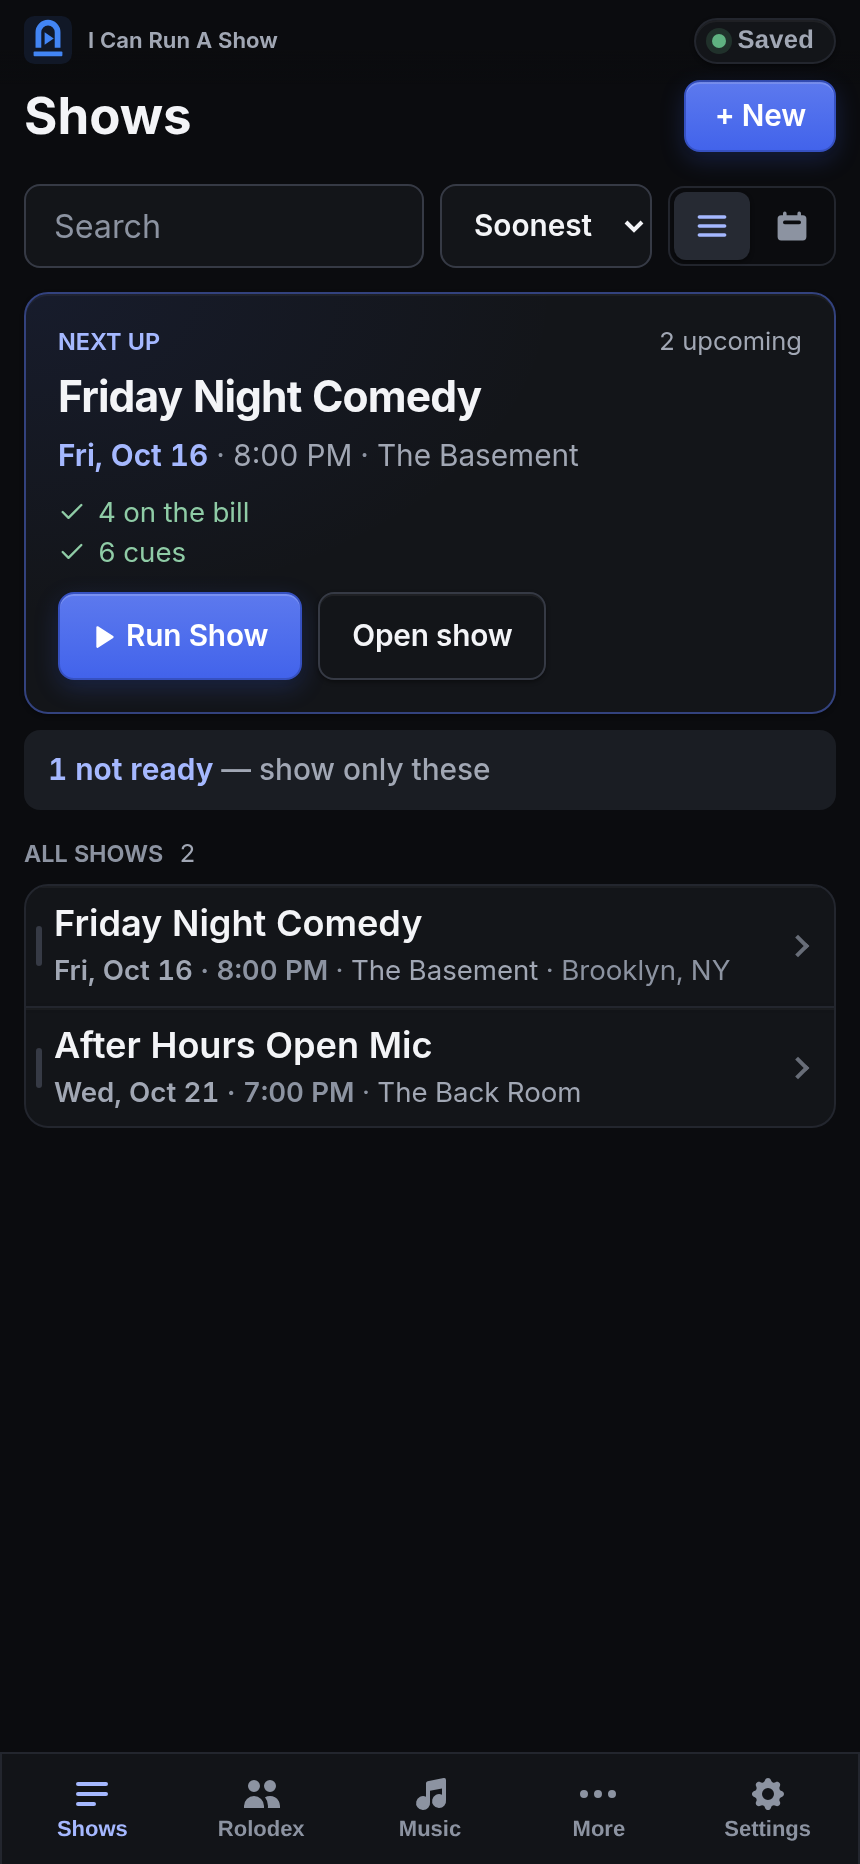
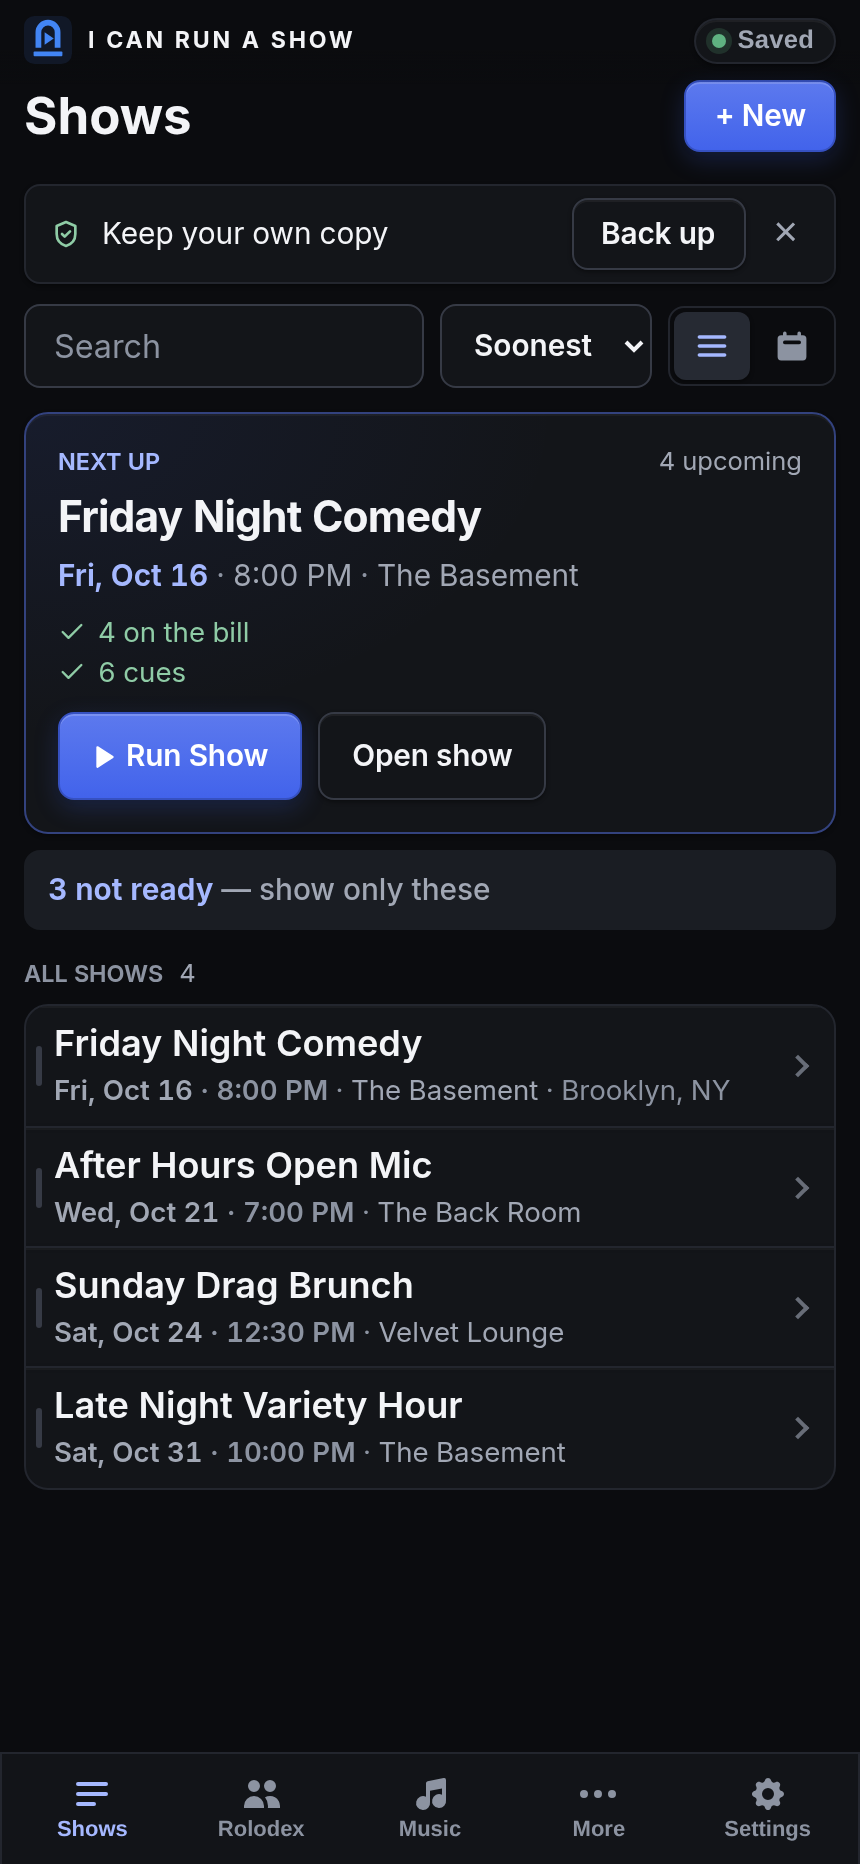
Take the last indie tells out of the app and sales page (#320)
- Sales page: line icons instead of emoji, a trust strip of facts (Stripe
  payments, on-device encryption, offline, no trackers, cancel anytime), a
  support address in the footer and a help FAQ.
- Headlines set the accent word solid instead of in a gradient.
- The name is set as a wordmark (tracked capitals) beside the logo,
  in the app and on the sales page.
- Sign-in folds the link-troubleshooting note behind one line.
- Letter avatars get a colour per person (utils/avatarTint.ts), stable
  across screens.
- Run Show faders read in the app's face, sit in a recessed slot with a
  filled rail and capped thumbs, and its play button uses the app accent.
- Screenshot demo seeds a month of shows, so the dashboard looks in use.
- Screenshots and sales-page images re-captured.

diff --git a/public/tour/index.html b/public/tour/index.html
@@ -120,6 +120,7 @@
     .nav .wrap { display: flex; align-items: center; gap: 20px; min-height: 64px; }
     .nav__brand { white-space: nowrap; display: flex; align-items: center; gap: 10px; color: var(--hero-text); text-decoration: none; font-weight: 700; letter-spacing: -0.01em; }
     .nav__brand img { width: 28px; height: 28px; }
+    .nav__brand span { font-size: 0.82rem; font-weight: 700; letter-spacing: 0.12em; text-transform: uppercase; }
     .nav__links { display: flex; gap: 22px; margin-left: auto; align-items: center; }
     .nav__links a { white-space: nowrap; color: var(--hero-muted); text-decoration: none; font-size: 0.93rem; font-weight: 550; }
     .nav__links a:hover { color: var(--hero-text); }
@@ -138,7 +139,7 @@
     .hero .wrap { display: grid; grid-template-columns: 1.05fr 0.95fr; gap: 48px; align-items: center; }
     .eyebrow { display: inline-block; font-size: 0.75rem; font-weight: 650; letter-spacing: 0.1em; text-transform: uppercase; color: var(--hero-accent); margin-bottom: 16px; }
     .hero h1 { font-size: clamp(2.3rem, 5.4vw, 3.9rem); line-height: 1.04; letter-spacing: -0.035em; font-weight: 750; margin-bottom: 20px; }
-    .hero h1 em { font-style: normal; background: linear-gradient(92deg, #a5b8ff, #d0bfff); -webkit-background-clip: text; background-clip: text; color: transparent; }
+    .hero h1 em { font-style: normal; color: var(--hero-accent); }
     .hero__lede { font-size: 1.15rem; color: var(--hero-muted); max-width: 34em; margin-bottom: 28px; }
     .hero__ctas { display: flex; gap: 12px; flex-wrap: wrap; margin-bottom: 18px; }
     .hero__fine { font-size: 0.88rem; color: var(--hero-muted); }
@@ -157,10 +158,18 @@
       .hero__badge { left: -12px; }
     }
 
+
+    /* Trust strip: facts about payments and data, not testimonials. */
+    .trust { border-bottom: 1px solid var(--border); background: var(--surface); }
+    .trust .wrap { display: flex; flex-wrap: wrap; justify-content: center; gap: 12px 32px; padding-top: 18px; padding-bottom: 18px; }
+    .trust span { display: inline-flex; align-items: center; gap: 8px; font-size: 0.9rem; font-weight: 600; color: var(--text-muted); white-space: nowrap; }
+    .trust svg { width: 18px; height: 18px; color: var(--primary); }
+
     /* ── Sections ── */
     section { padding: 80px 0; }
     .section-head { max-width: 680px; margin-bottom: 44px; }
     .section-head .eyebrow { color: var(--primary); }
+    @media (prefers-color-scheme: dark) { :root:not([data-theme="light"]) .section-head .eyebrow, :root:not([data-theme="light"]) .swap__col--after h3 { color: #91a7ff; } }
     h2 { font-size: clamp(1.8rem, 3.6vw, 2.5rem); line-height: 1.12; letter-spacing: -0.025em; font-weight: 720; margin-bottom: 14px; }
     .section-head p { color: var(--text-muted); font-size: 1.08rem; }
 
@@ -200,7 +209,8 @@
     .card { background: var(--surface); border: 1px solid var(--border); border-radius: 14px; padding: 24px; box-shadow: var(--card-shadow); }
     .card h3 { font-size: 1.05rem; margin-bottom: 6px; }
     .card p { color: var(--text-muted); font-size: 0.95rem; }
-    .card__icon { font-size: 1.4rem; margin-bottom: 10px; }
+    .card__icon { display: grid; place-items: center; width: 40px; height: 40px; margin-bottom: 14px; border-radius: 10px; background: var(--primary-soft); color: var(--primary); border: 1px solid color-mix(in srgb, var(--primary) 22%, transparent); }
+    @media (prefers-color-scheme: dark) { :root:not([data-theme="light"]) .card__icon { color: #a5b8ff; } }
     @media (max-width: 860px) { .grid { grid-template-columns: 1fr 1fr; } }
     @media (max-width: 560px) { .grid { grid-template-columns: 1fr; } }
 
@@ -288,6 +298,16 @@
       </div>
     </div>
   </section>
+
+  <div class="trust" aria-label="How your data and payments are handled">
+    <div class="wrap">
+      <span><svg viewBox="0 0 24 24" width="20" height="20" fill="none" stroke="currentColor" stroke-width="1.8" stroke-linecap="round" stroke-linejoin="round" aria-hidden="true"><rect x="2" y="5" width="20" height="14" rx="2"/><line x1="2" y1="10" x2="22" y2="10"/></svg> Payments by Stripe</span>
+      <span><svg viewBox="0 0 24 24" width="20" height="20" fill="none" stroke="currentColor" stroke-width="1.8" stroke-linecap="round" stroke-linejoin="round" aria-hidden="true"><rect x="3" y="11" width="18" height="11" rx="2"/><path d="M7 11V7a5 5 0 0 1 10 0v4"/></svg> Encrypted on your device</span>
+      <span><svg viewBox="0 0 24 24" width="20" height="20" fill="none" stroke="currentColor" stroke-width="1.8" stroke-linecap="round" stroke-linejoin="round" aria-hidden="true"><path d="M5 12.55a11 11 0 0 1 14.08 0"/><path d="M8.53 16.11a6 6 0 0 1 6.95 0"/><line x1="12" y1="20" x2="12.01" y2="20"/></svg> Works with no signal</span>
+      <span><svg viewBox="0 0 24 24" width="20" height="20" fill="none" stroke="currentColor" stroke-width="1.8" stroke-linecap="round" stroke-linejoin="round" aria-hidden="true"><path d="M12 22s8-4 8-10V5l-8-3-8 3v7c0 6 8 10 8 10z"/></svg> No ads, no trackers</span>
+      <span><svg viewBox="0 0 24 24" width="20" height="20" fill="none" stroke="currentColor" stroke-width="1.8" stroke-linecap="round" stroke-linejoin="round" aria-hidden="true"><polyline points="20 6 9 17 4 12"/></svg> Cancel anytime</span>
+    </div>
+  </div>
 
   <section>
     <div class="wrap">
@@ -404,12 +424,12 @@
         <p>Bad signal, a dying phone and five minutes to doors. It was designed for exactly that.</p>
       </div>
       <div class="grid">
-        <div class="card"><div class="card__icon">📶</div><h3>Works offline</h3><p>Install it to your home screen. When the venue Wi-Fi dies, the show doesn't.</p></div>
-        <div class="card"><div class="card__icon">🔒</div><h3>Private by design</h3><p>Your shows are encrypted on your device before they're saved. We can't read them.</p></div>
-        <div class="card"><div class="card__icon">📺</div><h3>Live audience link</h3><p>Share a link that shows who's on now and who's up next — updates live.</p></div>
-        <div class="card"><div class="card__icon">📣</div><h3>Promo post in one tap</h3><p>The bill, the host and everyone's handles composed into a caption, ready to paste.</p></div>
-        <div class="card"><div class="card__icon">📈</div><h3>Season report</h3><p>Audience, money and your regulars across every show — plus a venue pitch, copied in one tap.</p></div>
-        <div class="card"><div class="card__icon">🚫</div><h3>No ads, no tracking</h3><p>No ad cookies, no third-party trackers, no selling your data. Ever.</p></div>
+        <div class="card"><div class="card__icon"><svg viewBox="0 0 24 24" width="20" height="20" fill="none" stroke="currentColor" stroke-width="1.8" stroke-linecap="round" stroke-linejoin="round" aria-hidden="true"><path d="M5 12.55a11 11 0 0 1 14.08 0"/><path d="M1.42 9a16 16 0 0 1 21.16 0"/><path d="M8.53 16.11a6 6 0 0 1 6.95 0"/><line x1="12" y1="20" x2="12.01" y2="20"/></svg></div><h3>Works offline</h3><p>Install it to your home screen. When the venue Wi-Fi dies, the show doesn't.</p></div>
+        <div class="card"><div class="card__icon"><svg viewBox="0 0 24 24" width="20" height="20" fill="none" stroke="currentColor" stroke-width="1.8" stroke-linecap="round" stroke-linejoin="round" aria-hidden="true"><rect x="3" y="11" width="18" height="11" rx="2"/><path d="M7 11V7a5 5 0 0 1 10 0v4"/></svg></div><h3>Private by design</h3><p>Your shows are encrypted on your device before they're saved. We can't read them.</p></div>
+        <div class="card"><div class="card__icon"><svg viewBox="0 0 24 24" width="20" height="20" fill="none" stroke="currentColor" stroke-width="1.8" stroke-linecap="round" stroke-linejoin="round" aria-hidden="true"><rect x="2" y="7" width="20" height="15" rx="2"/><polyline points="17 2 12 7 7 2"/></svg></div><h3>Live audience link</h3><p>Share a link that shows who's on now and who's up next — updates live.</p></div>
+        <div class="card"><div class="card__icon"><svg viewBox="0 0 24 24" width="20" height="20" fill="none" stroke="currentColor" stroke-width="1.8" stroke-linecap="round" stroke-linejoin="round" aria-hidden="true"><line x1="22" y1="2" x2="11" y2="13"/><polygon points="22 2 15 22 11 13 2 9 22 2"/></svg></div><h3>Promo post in one tap</h3><p>The bill, the host and everyone's handles composed into a caption, ready to paste.</p></div>
+        <div class="card"><div class="card__icon"><svg viewBox="0 0 24 24" width="20" height="20" fill="none" stroke="currentColor" stroke-width="1.8" stroke-linecap="round" stroke-linejoin="round" aria-hidden="true"><polyline points="23 6 13.5 15.5 8.5 10.5 1 18"/><polyline points="17 6 23 6 23 12"/></svg></div><h3>Season report</h3><p>Audience, money and your regulars across every show — plus a venue pitch, copied in one tap.</p></div>
+        <div class="card"><div class="card__icon"><svg viewBox="0 0 24 24" width="20" height="20" fill="none" stroke="currentColor" stroke-width="1.8" stroke-linecap="round" stroke-linejoin="round" aria-hidden="true"><path d="M12 22s8-4 8-10V5l-8-3-8 3v7c0 6 8 10 8 10z"/></svg></div><h3>No ads, no tracking</h3><p>No ad cookies, no third-party trackers, no selling your data. Ever.</p></div>
       </div>
     </div>
   </section>
@@ -510,6 +530,10 @@
           <summary>Can I get my data out?</summary>
           <p>Yes, any time. Settings → export gives you a full backup file of every show, performer and setting.</p>
         </details>
+        <details>
+          <summary>How do I get help?</summary>
+          <p>Email <a href="mailto:skatematesnyc@gmail.com">skatematesnyc@gmail.com</a> for anything. For billing, you can also change your card or cancel yourself from Settings → Manage billing.</p>
+        </details>
       </div>
     </div>
   </section>
@@ -525,7 +549,7 @@
 
 <footer>
   <div class="wrap">
-    <span>© I Can Run A Show</span>
+    <span>© 2026 I Can Run A Show · <a href="mailto:skatematesnyc@gmail.com">skatematesnyc@gmail.com</a></span>
     <nav aria-label="Footer">
       <a href="/guides/">Guides</a>
       <a href="/privacy.html">Privacy</a>

diff --git a/src/polish.css b/src/polish.css
@@ -242,13 +242,9 @@
   line-height: 1.04;
   margin-bottom: 18px;
 }
-.landing__headline em {
-  font-style: normal;
-  background: linear-gradient(92deg, var(--primary-text), color-mix(in srgb, var(--primary-text) 55%, #c084fc));
-  -webkit-background-clip: text;
-  background-clip: text;
-  color: transparent;
-}
+/* One word in the accent, set solid. A gradient fill reads as a launch page;
+   a booker is choosing a tool. */
+.landing__headline em { font-style: normal; color: var(--primary-text); }
 .landing__lede { font-size: var(--text-lg); }
 .landing__steps { border-top-color: var(--border); }
 .landing__steps li { border-bottom-color: var(--border); padding: 12px 0; font-weight: 500; }
@@ -280,7 +276,91 @@
 
 /* ── Run Show ─────────────────────────────────────────────────────────── */
 /* Still charcoal and still quiet; the accent matches the rest of the app. */
-.run-show.run-show { --rs-blue: var(--show-accent, #4263eb); --rs-blue-text: #a5b8ff; }
+.run-show.run-show.run-show { --rs-blue: var(--show-accent, #4263eb); --rs-blue-text: #a5b8ff; }
+/* RunShowAppearance.css arrives with the lazily loaded Run Show chunk, after
+   this file, so these carry one more class to stay ahead of it. */
+.run-show.run-show .rs-music-card__play {
+  border-color: #3654d6;
+  background: linear-gradient(180deg, #5b78ee, #4263eb);
+  box-shadow: inset 0 1px 0 rgb(255 255 255 / 18%), 0 4px 14px rgb(66 99 235 / 35%);
+}
+.run-show.run-show .rs-music-card__play:hover:not(:disabled) { background: linear-gradient(180deg, #6a86f2, #5472f0); border-color: #3654d6; }
 .rs-btn--start,
 .rs-btn--start:hover:not(:disabled) { background: #4263eb; border-color: #3654d6; color: #ffffff; }
 .run-show .rs-fade__slider:focus-visible { outline-color: #a5b8ff; }
+
+/* ── Wordmark ─────────────────────────────────────────────────────────── */
+/* The name set as a mark rather than a sentence: tracked capitals beside the
+   logo, the way an established name sits on a letterhead. */
+.landing__wordmark-text,
+.mobile-brand > span,
+.show-workspace__brand span,
+.bottom-nav__brand-text {
+  font-size: 0.78rem;
+  font-weight: 700;
+  letter-spacing: 0.12em;
+  text-transform: uppercase;
+  color: var(--text);
+}
+@media (max-width: 899px) {
+  .mobile-brand > span { font-size: 0.68rem; }
+}
+
+/* ── Letter avatars ───────────────────────────────────────────────────── */
+/* Each person gets their own hue (utils/avatarTint.ts). */
+.avatar-tint.avatar-tint {
+  background: hsl(var(--avatar-hue, 225) 70% 93%);
+  color: hsl(var(--avatar-hue, 225) 55% 32%);
+  border-color: transparent;
+}
+[data-theme="dark"] .avatar-tint.avatar-tint {
+  background: hsl(var(--avatar-hue, 225) 38% 20%);
+  color: hsl(var(--avatar-hue, 225) 85% 82%);
+}
+
+/* ── Run Show faders ──────────────────────────────────────────────────── */
+/* Readouts in the app's face rather than a terminal's, and faders that look
+   like hardware: a recessed slot, a filled rail and a capped thumb. */
+.run-show.run-show .rs-console__levels-title,
+.run-show.run-show .rs-fader__value {
+  font-family: inherit;
+  font-variant-numeric: tabular-nums;
+  font-size: 0.72rem;
+  font-weight: 650;
+  letter-spacing: 0.02em;
+}
+.run-show.run-show .rs-fader__label { font-weight: 650; letter-spacing: 0.1em; text-transform: uppercase; }
+.run-show.run-show .rs-console__levels {
+  background: linear-gradient(180deg, rgb(255 255 255 / 3%), rgb(0 0 0 / 18%));
+  border: 1px solid rgb(255 255 255 / 7%);
+  border-radius: 14px;
+  box-shadow: inset 0 1px 0 rgb(255 255 255 / 4%);
+}
+.run-show.run-show .rs-fade__slider::-webkit-slider-runnable-track {
+  height: 6px;
+  border-radius: 999px;
+  background: linear-gradient(90deg, #4263eb, #748ffc);
+  box-shadow: inset 0 1px 2px rgb(0 0 0 / 45%);
+}
+.run-show.run-show .rs-fade__slider::-moz-range-track {
+  height: 6px;
+  border-radius: 999px;
+  background: linear-gradient(90deg, #4263eb, #748ffc);
+}
+.run-show.run-show .rs-fade__slider::-webkit-slider-thumb {
+  width: 16px;
+  height: 30px;
+  margin-top: -12px;
+  border-radius: 5px;
+  border: 1px solid #c9ced8;
+  background: linear-gradient(90deg, #f3f4f7 0 46%, #8c93a1 46% 54%, #f3f4f7 54%);
+  box-shadow: 0 2px 6px rgb(0 0 0 / 55%);
+}
+.run-show.run-show .rs-fade__slider::-moz-range-thumb {
+  width: 16px;
+  height: 30px;
+  border-radius: 5px;
+  border: 1px solid #c9ced8;
+  background: linear-gradient(90deg, #f3f4f7 0 46%, #8c93a1 46% 54%, #f3f4f7 54%);
+  box-shadow: 0 2px 6px rgb(0 0 0 / 55%);
+}

diff --git a/src/components/HeadshotPanel.tsx b/src/components/HeadshotPanel.tsx
@@ -4,6 +4,7 @@ import { dataUrlToFile, imageUploadSizeError } from '../utils/media';
 import { uploadMedia } from '../utils/mediaStore';
 import { useMediaUrl } from '../utils/useMediaUrl';
 import { useConfirm } from './useConfirm';
+import { avatarTint } from '../utils/avatarTint';
 
 /** Shared by show performers and the saved comic profile. */
 export function HeadshotPanel({ name, photo, onChange }: {
@@ -75,7 +76,7 @@ export function HeadshotPanel({ name, photo, onChange }: {
     <p className="perf-profile__section-label">Headshot</p>
     {url ? <button className="headshot__preview-button" onClick={() => preview.current?.showModal()} aria-label={`View ${name}'s headshot`}>
       <img className="headshot__image" src={url} alt={`${name}'s headshot`} />
-    </button> : <div className="perf-profile__avatar-wrap"><div className="perf-profile__avatar-placeholder">{name.charAt(0).toUpperCase()}</div></div>}
+    </button> : <div className="perf-profile__avatar-wrap"><div className="perf-profile__avatar-placeholder avatar-tint" style={avatarTint(name)}>{name.charAt(0).toUpperCase()}</div></div>}
     {photo && !url && <p role="status" className="perf-profile__photo-hint">Loading headshot… If it does not appear, reopen the profile to retry.</p>}
     <input ref={input} type="file" accept="image/*" hidden aria-label="Choose headshot file" onChange={e => {
       const file = e.target.files?.[0];

diff --git a/src/components/ShowDetail.tsx b/src/components/ShowDetail.tsx
@@ -47,6 +47,7 @@ import './ShowDetail.css';
 import { useConfirm } from './useConfirm';
 import { ProducerLock } from './ProducerLock';
 import { useProducerAccess } from '../utils/producerAccess';
+import { avatarTint } from '../utils/avatarTint';
 
 // Each section card wears the icon for what it holds, so the grid is scannable
 // by shape once you know the page — a wall of same-looking cards is the failure
@@ -118,7 +119,7 @@ const STATUS_LABELS: Record<ShowStatus, string> = {
 function LineupPreview({ performer, onOpen }: { performer: Performer; onOpen: () => void }) {
   const photo = useMediaUrl(performer.photo);
   return <button className="show-workspace__person" onClick={onOpen} aria-label={`Open ${performer.name}'s profile`}>
-    {photo ? <img src={photo} alt="" /> : <span className="show-workspace__initial">{performer.name.charAt(0).toUpperCase()}</span>}
+    {photo ? <img src={photo} alt="" /> : <span className="show-workspace__initial avatar-tint" style={avatarTint(performer.name)}>{performer.name.charAt(0).toUpperCase()}</span>}
     <span><strong>{performer.name}</strong>{performer.socialMedia && <small>{performer.socialMedia}</small>}{performer.walkOnMusicName && <small>{performer.walkOnMusicName}</small>}{!performer.socialMedia && !performer.walkOnMusicName && <small>Edit profile & headshot</small>}</span>
     <Icon name="edit" size={15} />
   </button>;

diff --git a/src/components/Login.tsx b/src/components/Login.tsx
@@ -143,11 +143,14 @@ export function Login({ onSignIn, onSignUp, loading = false, errorMessage = '' }
                 homepage instead, or a link broken across two lines in a text.
                 Saying so here is the difference between them asking for the
                 link again and them signing up for a producer's tool. */}
-            <p className="login__no-account">
-              Sent a link to sign or fill in? You do not need an account. Open the link
-              itself again — tap the address, not a preview card, and make sure you have
-              the whole thing, including everything after the <code>#</code>.
-            </p>
+            <details className="login__no-account">
+              <summary>Were you sent a link to sign or fill in?</summary>
+              <p>
+                You do not need an account. Open the link itself again — tap the address,
+                not a preview card, and make sure you have the whole thing, including
+                everything after the <code>#</code>.
+              </p>
+            </details>
             <p className="login__legal">
               <a href="/tour/">Features &amp; pricing</a>
               <a href="/guides/">Guides</a>

diff --git a/src/components/RolodexRow.tsx b/src/components/RolodexRow.tsx
@@ -5,6 +5,7 @@ import { profileUrl, type ProfileLinkStatus } from '../utils/profileLink';
 import { describeChanges, type ProfileChange } from '../utils/signatureImport';
 import { useMediaUrl } from '../utils/useMediaUrl';
 import { useConfirm } from './useConfirm';
+import { avatarTint } from '../utils/avatarTint';
 
 /**
  * The address a row can put back on screen for a link still out asking.
@@ -133,7 +134,7 @@ export function RolodexRow({
         {photoUrl ? (
           <img className="rolodex__photo" src={photoUrl} alt="" />
         ) : (
-          <span className="rolodex__photo-placeholder">{comic.name.charAt(0).toUpperCase()}</span>
+          <span className="rolodex__photo-placeholder avatar-tint" style={avatarTint(comic.name)}>{comic.name.charAt(0).toUpperCase()}</span>
         )}
         <span className="rolodex__item-content">
           <span className="rolodex__name">{comic.name}</span>

diff --git a/src/utils/avatarTint.test.ts b/src/utils/avatarTint.test.ts
@@ -1,0 +1,21 @@
+import { describe, expect, it } from 'vitest';
+import { avatarHue } from './avatarTint';
+
+describe('the letter avatar colour', () => {
+  it('is the same for the same person however the name was typed', () => {
+    expect(avatarHue('Maya Reyes')).toBe(avatarHue('  maya reyes '));
+  });
+
+  it('differs between people', () => {
+    const hues = new Set(['Corey Cooley', 'Maya Reyes', 'Dev Okafor', 'Sam Tran'].map(avatarHue));
+    expect(hues.size).toBe(4);
+  });
+
+  it('is always a hue', () => {
+    for (const n of ['', 'Z', 'Ünïcödé 名前']) {
+      const h = avatarHue(n);
+      expect(h).toBeGreaterThanOrEqual(0);
+      expect(h).toBeLessThan(360);
+    }
+  });
+});

diff --git a/src/utils/avatarTint.ts b/src/utils/avatarTint.ts
@@ -1,0 +1,16 @@
+import type { CSSProperties } from 'react';
+
+// A hue of its own for each person's letter avatar, so a lineup without
+// headshots reads as a row of people rather than one badge repeated. Keyed off
+// the name, so the same comic keeps the same colour on every screen and every
+// device; polish.css turns the hue into a background and a letter colour that
+// suit the theme.
+export function avatarHue(name: string): number {
+  let h = 0;
+  for (const ch of name.trim().toLowerCase()) h = (h * 31 + ch.codePointAt(0)!) >>> 0;
+  return h % 360;
+}
+
+export function avatarTint(name: string): CSSProperties {
+  return { '--avatar-hue': avatarHue(name) } as CSSProperties;
+}

diff --git a/src/components/Login.css b/src/components/Login.css
@@ -236,6 +236,21 @@
   text-align: center;
 }
 
+/* Folded away: the people who need it are told where to look, and everyone
+   else signing in doesn't read a troubleshooting note on the front door. */
+.login__no-account summary {
+  cursor: pointer;
+  list-style: none;
+  font-weight: 550;
+  color: var(--text-muted);
+  text-decoration: underline;
+  text-underline-offset: 3px;
+  text-decoration-color: var(--border-strong);
+}
+.login__no-account summary::-webkit-details-marker { display: none; }
+.login__no-account summary:hover { color: var(--text); }
+.login__no-account p { margin: var(--space-2) 0 0; }
+
 .login__no-account code {
   font-family: var(--font-mono);
 }
